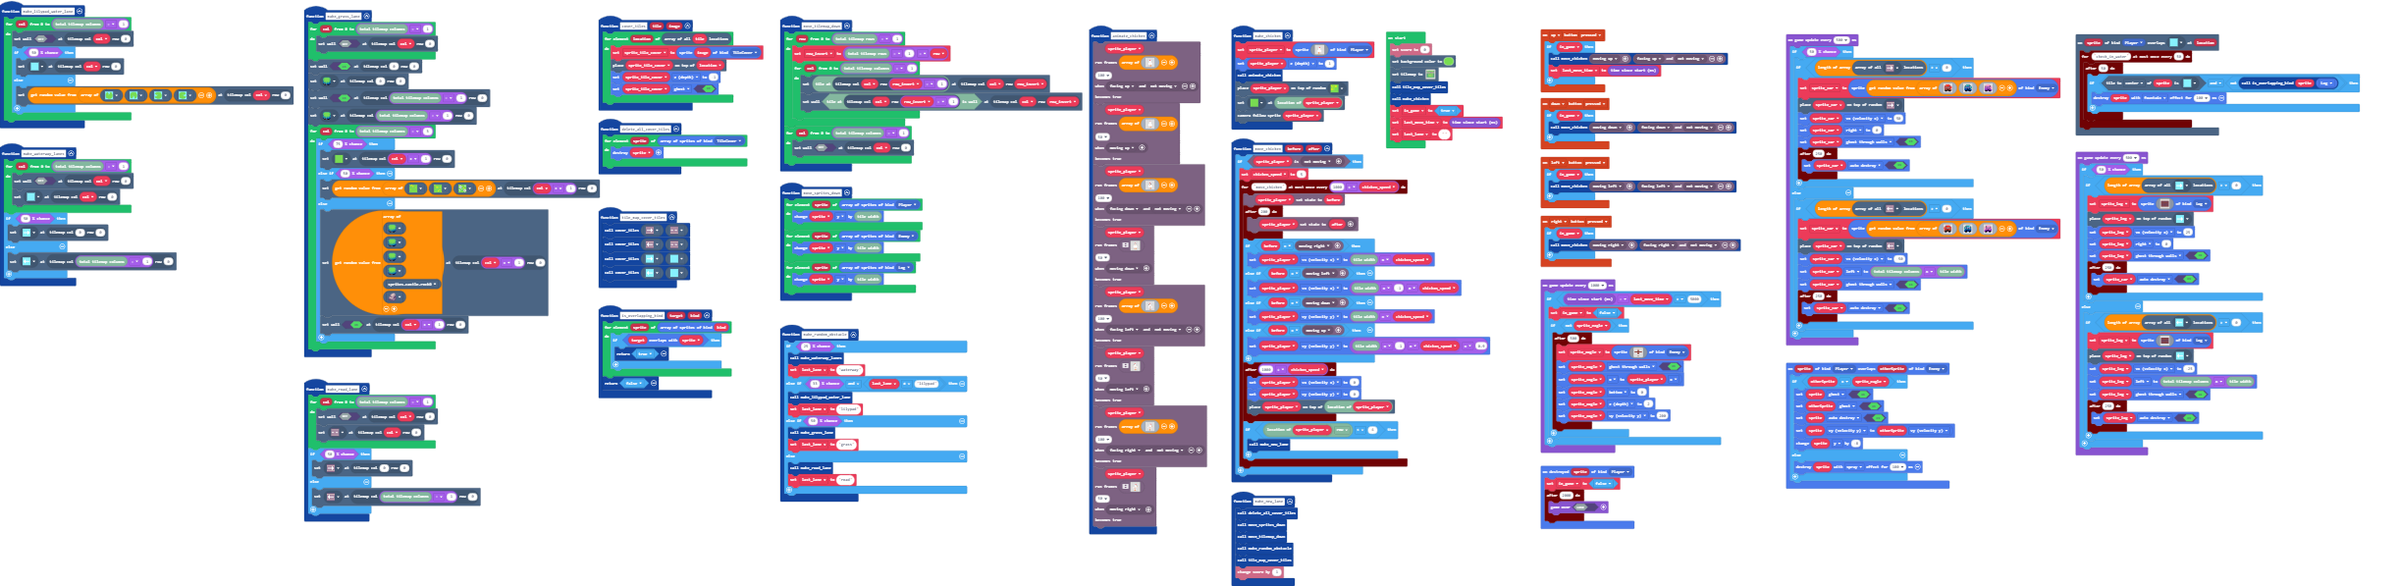
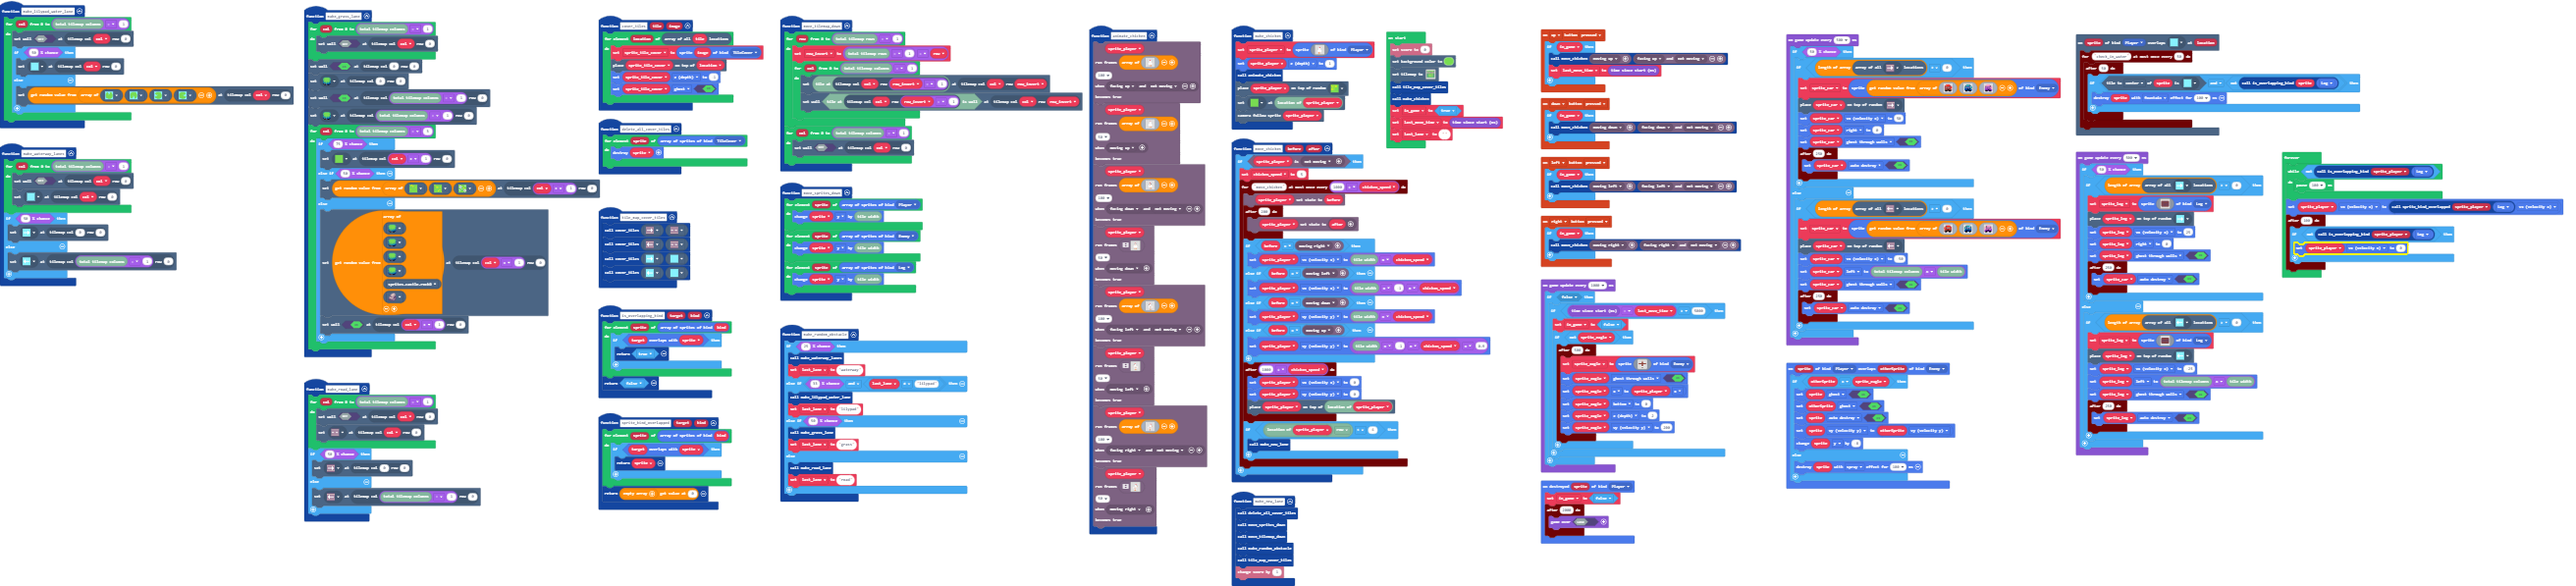
Get logs to work

diff --git a/main.ts b/main.ts
@@ -255,6 +255,14 @@ function make_chicken () {
     tiles.setTileAt(tiles.locationOfSprite(sprite_player), assets.tile`grass`)
     scene.cameraFollowSprite(sprite_player)
 }
+function sprite_kind_overlapped (target: Sprite, kind: number) {
+    for (let sprite of sprites.allOfKind(kind)) {
+        if (target.overlapsWith(sprite)) {
+            return sprite
+        }
+    }
+    return [][0]
+}
 sprites.onOverlap(SpriteKind.Player, SpriteKind.Enemy, function (sprite, otherSprite) {
     if (otherSprite == sprite_eagle) {
         sprite.setFlag(SpriteFlag.Ghost, true)
@@ -285,19 +293,32 @@ in_game = true
 last_move_time = game.runtime()
 last_lane = ""
 game.onUpdateInterval(1000, function () {
-    if (game.runtime() - last_move_time > 5000) {
-        in_game = false
-        if (!(sprite_eagle)) {
-            timer.after(500, function () {
-                sprite_eagle = sprites.create(assets.image`eagle`, SpriteKind.Enemy)
-                sprite_eagle.setFlag(SpriteFlag.GhostThroughWalls, true)
-                sprite_eagle.x = sprite_player.x
-                sprite_eagle.bottom = 0
-                sprite_eagle.z = 2
-                sprite_eagle.vy = 200
-            })
+    if (false) {
+        if (game.runtime() - last_move_time > 5000) {
+            in_game = false
+            if (!(sprite_eagle)) {
+                timer.after(500, function () {
+                    sprite_eagle = sprites.create(assets.image`eagle`, SpriteKind.Enemy)
+                    sprite_eagle.setFlag(SpriteFlag.GhostThroughWalls, true)
+                    sprite_eagle.x = sprite_player.x
+                    sprite_eagle.bottom = 0
+                    sprite_eagle.z = 2
+                    sprite_eagle.vy = 200
+                })
+            }
         }
     }
+})
+forever(function () {
+    while (!(is_overlapping_kind(sprite_player, SpriteKind.Log))) {
+        pause(100)
+    }
+    sprite_player.vx = sprite_kind_overlapped(sprite_player, SpriteKind.Log).vx
+    timer.after(100, function () {
+        if (!(is_overlapping_kind(sprite_player, SpriteKind.Log))) {
+            sprite_player.vx = 0
+        }
+    })
 })
 game.onUpdateInterval(500, function () {
     if (Math.percentChance(50)) {
